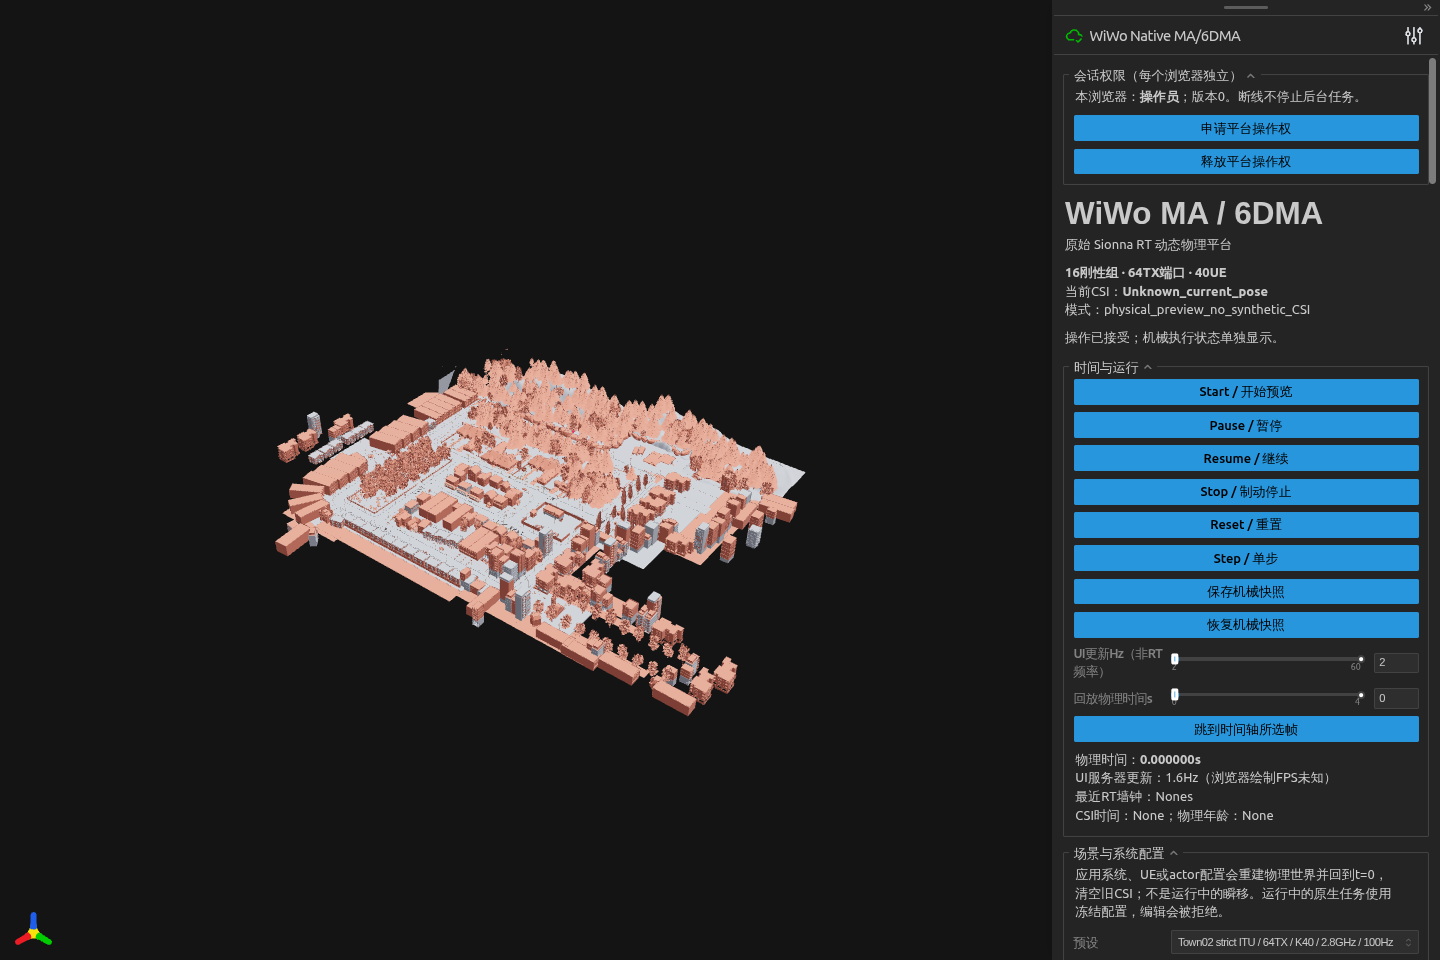
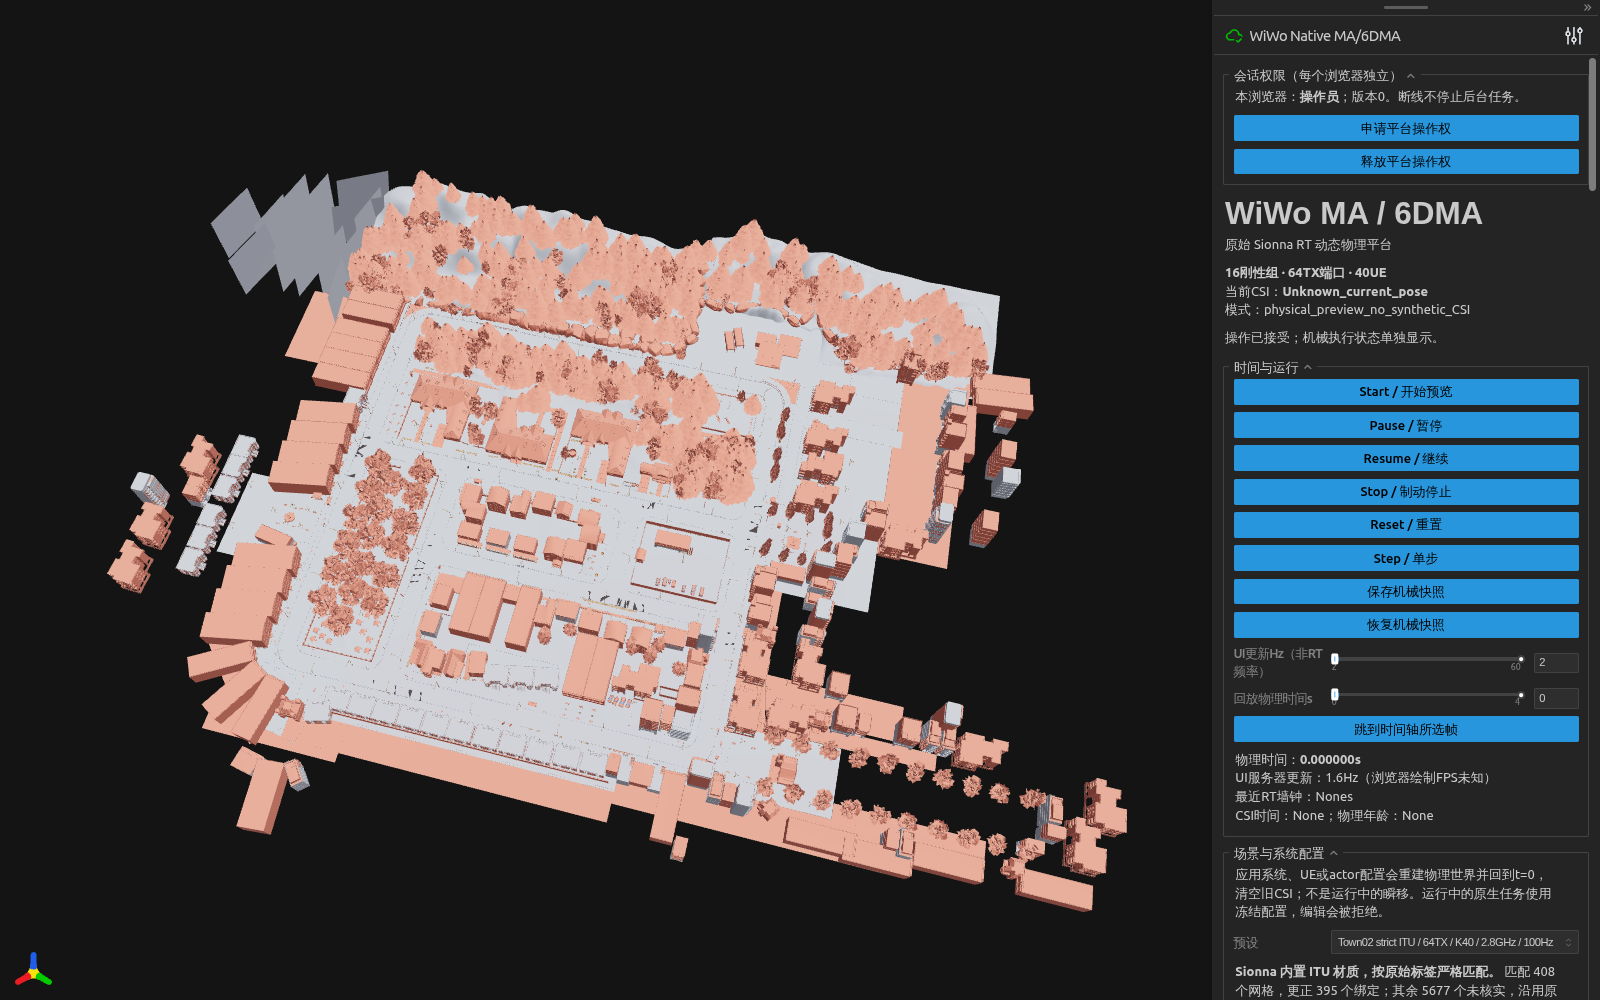
Publish six Town02 views with an English platform guide
Replace the earlier gallery with complete city, road-layout, site, array, panel-detail and frontend captures from the running strict ITU scene. Include camera positions, full mesh counts, image hashes and verified panel motion. Keep all README text in English while retaining the application's original interface in the screenshots.

diff --git a/README.md b/README.md
@@ -6,9 +6,9 @@ WiWo-MA connects antenna motion, scene geometry and channel measurements on the 
 
 The current examples use **Town02: 16 panels, 64 physical TX ports, 40 UEs, and a 2.8 GHz carrier**. The browser preview runs on the CPU. Computing new channels requires a working NVIDIA/CUDA/OptiX environment and a separately authorized job.
 
-![The running WiWo-MA frontend with Town02 and movable antenna panels](docs/media/town02-platform.png)
+![Town02 city blocks and streets in the running WiWo-MA platform](docs/media/town02-panorama.png)
 
-*Actual Town02 browser capture at t = 1.41 s, after four panels moved by 20 mm in their commanded directions. This is a mechanics preview; no CSI was computed for the screenshot.*
+*Town02 in the running platform. The camera frames the full scene; the screenshots below show the street layout, base-station neighborhood and movable antennas at closer distances.*
 
 ## 🧭 What the platform does
 
@@ -66,7 +66,7 @@ Town02 is an **external scene**, not a required download for the whole platform.
 
 ```text
 Sionna_Town02/
-├── 资源SHA256.json
+├── <original checksum manifest>
 └── Town2_xml/
     ├── town2_xml.xml
     ├── town2_3mat.xml
@@ -75,6 +75,8 @@ Sionna_Town02/
     └── material_manager.py
 ```
 
+Keep the checksum manifest under the filename supplied by the resource provider;
+the [resource guide](assets/README.md) explains the import requirements.
 With the dependencies installed:
 
 ```bash
@@ -91,9 +93,13 @@ WIWO_TOWN02_SOURCE=/path/to/Sionna_Town02 scripts/platform/install --no-browser
 
 The importer checks source hashes before changing an existing import, copies resources into `assets/town02/`, and generates the strict material variant and its audit. It preserves the original scene and coordinates. The full map has **6,085 meshes, 2,831,119 vertices and 3,268,710 triangles**. The imported resource set contains 8,635 files, about 144 MiB uncompressed.
 
-![Town02 panorama captured in the running platform](docs/media/town02-panorama.png)
+![Town02 street layout from above](docs/media/town02-topdown.png)
 
-*The complete imported map in the Web viewer. Use **地图全景 / Map overview** to frame the map, or **聚焦选中面板** to return to the selected antenna panel. A separate [geometry projection](docs/media/town02-map-overview.png) shows the material groups and UE layout.*
+*A near-vertical view makes the road network and city blocks easier to read. Use **Map overview** to frame the map in your own session. A separate [geometry projection](docs/media/town02-map-overview.png) shows the material groups and UE layout.*
+
+![Town02 neighborhood around the base station](docs/media/town02-site.png)
+
+*The blocks around the actual base station. The label marks its world position; the scene and radio-material bindings are the same as in the full overview.*
 
 ### Materials and provenance
 
@@ -130,17 +136,25 @@ scripts/platform/town02-service status
 
 The background manager listens on `0.0.0.0` by default. Use `restart --host 127.0.0.1` for a loopback-only service. Container restart persistence belongs in the platform's startup settings; a detached process does not survive a container restart.
 
+![The running frontend with the base station and UE road positions](docs/media/town02-platform.png)
+
+*The experiment in its surroundings, after the scheduled antenna motion. The labels identify the real BS and UE positions. Preview, mechanical time and CSI status are shown by the application.*
+
 ## 🦾 Run a mechanical experiment
 
 ![Movable antenna panels and physical TX ports in Town02](docs/media/town02-antennas.png)
 
 *The 16-panel apparatus before motion, with four physical TX ports per panel. The capture checks displayed TX coordinates against the physical state, then executes and verifies the scheduled motion.*
 
+![One movable antenna panel and its four physical TX ports](docs/media/town02-panel-detail.png)
+
+*A closer view of the selected panel and its four ports. The camera faces the actual panel normal, so its surface and element layout are visible.*
+
 Choose a preset, then use **Start**, **Pause**, **Step** and **Reset** to inspect the motion. To submit a manual target:
 
 1. Select a panel and choose world coordinates or the constrained BS-local input mode.
 2. Enter a permitted position and rotation, or adjust the target gizmo.
-3. Click **执行目标姿态** to submit it. Editing a field alone does not move the antenna.
+3. Use the target-pose execution button to submit it. Editing a field alone does not move the antenna.
 4. Check the submitted action and its execution status. For several panels, add targets to the joint action queue and submit the transaction.
 
 | Configuration | System | Physical interval |
@@ -212,7 +226,7 @@ CPU preview and screenshot capture do not establish native Town02 CSI accuracy o
 
 Run this from a terminal that can listen on local ports and launch the installed Playwright Chromium. It selects a fresh private port pair, starts the production CPU-preview UI at 2 Hz, captures the panorama, antenna panels and full frontend, checks that the scheduled antenna motion actually occurs, and closes the temporary service. An existing 8080 service is left unchanged. Private screenshot services are excluded from VS Code automatic port forwarding.
 
-Successful capture writes `town02-panorama.png`, `town02-antennas.png`, `town02-platform.png` and `town02-gallery.json` into `docs/media/`. The checked-in [capture record](docs/media/town02-gallery.json) contains the strict scene configuration, image hashes, physical timestamps and verified motion. These are actual browser screenshots, captured with Chromium and software WebGL; they do not use historical Munich data or compute CSI.
+Successful capture writes six PNGs and `town02-gallery.json` into `docs/media/`; see the [image index](docs/media/README.md). The [capture record](docs/media/town02-gallery.json) contains the strict scene configuration, camera positions, image hashes, physical timestamps and verified motion. These are actual browser screenshots, captured with Chromium and software WebGL; they do not use historical Munich data or compute CSI.
 
 ## Documentation and license
 

diff --git a/docs/media/README.md b/docs/media/README.md
@@ -3,18 +3,21 @@
 ## Current Town02 gallery
 
 These images were captured from the running Town02 platform with Chromium
-151.0.7922.34 and software WebGL, at 1440 × 960 pixels. They use the strict
+151.0.7922.34 and software WebGL, at 1600 × 1000 pixels. They use the strict
 five-model ITU scene, 16 panels, 64 physical TX ports and 40 UEs. No native
 CSI was computed during capture.
 
 | Image | Captured state |
 |---|---|
 | [Town02 panorama](town02-panorama.png) | Complete imported map, paused at t = 0 s |
+| [Street layout](town02-topdown.png) | Near-vertical view of the roads and city blocks |
+| [Base-station neighborhood](town02-site.png) | Closer city view with the actual BS location marked |
 | [Movable antennas](town02-antennas.png) | Antenna panels, physical ports, workspaces and controls before motion |
-| [Running platform](town02-platform.png) | Frontend at t = 1.41 s, after four scheduled panel translations |
+| [Panel detail](town02-panel-detail.png) | Selected panel and four physical TX ports, viewed towards its surface |
+| [Running platform](town02-platform.png) | Frontend with BS and UE positions after four scheduled panel translations |
 
 The [capture record](town02-gallery.json) contains scene and image hashes,
-timestamps, browser details and the initial/final panel positions. Capture
+timestamps, camera positions, browser details and the initial/final panel positions. Capture
 verified the four commanded ±20 mm translations, the twelve unchanged panels,
 and displayed TX coordinates against the physical state. The temporary service
 was stopped after capture; the regular background service was left unchanged.

diff --git a/assets/README.md b/assets/README.md
@@ -17,7 +17,8 @@ WIWO_TOWN02_SOURCE=/path/to/Sionna_Town02 scripts/platform/install --no-browser
 .venv-full/bin/python -m wiwo_ma.platform.town02 status --require
 ```
 
-The package must contain `资源SHA256.json` and `Town2_xml/` with the original
+The package must contain its original provider-supplied SHA-256 manifest at the
+root, under its original filename, and `Town2_xml/` with the original
 `town2_xml.xml`, `town2_3mat.xml`, `meshes/`, `car_coordinate/` and
 `material_manager.py`. The importer verifies source hashes before copying
 resources to the Git-ignored `assets/town02/` directory.
